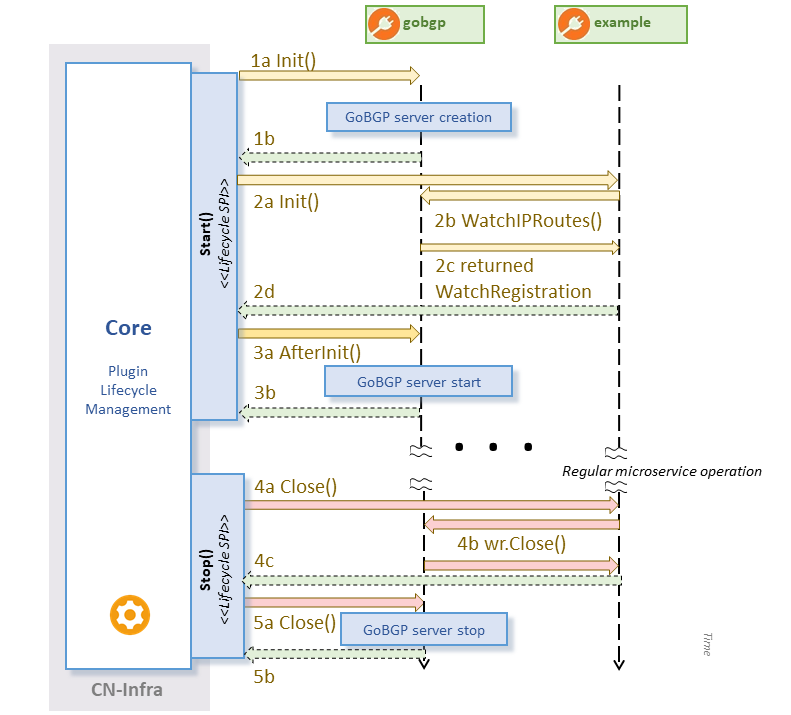
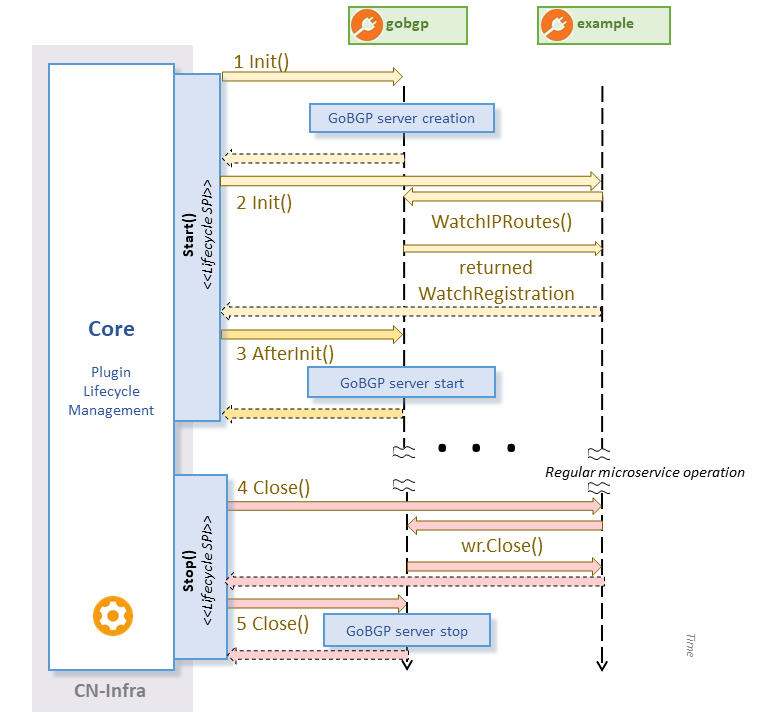
simplified bgp example workflow picture and clarified gobgp example architecture

diff --git a/example/gobgp/README.md b/example/gobgp/README.md
@@ -3,7 +3,7 @@
 The example demonstrates the usage of the `Ligato GoBGP Plugin`.
 ### Architecture
 ![arch](../../docs/imgs/dockerGoBGPExample.png "Ligato BGP Agent Example")
-Run the example itself locally and the [Route Reflector](../route-reflector-gobgp-docker) in docker container. The example will communicate with the Route reflector node(implemented by [GoBGP](https://github.com/osrg/gobgp)) using BGP protocol. Any new learned reachable routes from the Route reflector will be retrieved via the `Ligato GoBGP Plugin` and written to the console.
+Architecture consists of 2 `Ligato CN-Infra` plugins and the [Route Reflector](../route-reflector-gobgp-docker) in docker container. The lifecycle of plugins is controlled by [CN-Infra](https://github.com/ligato/cn-infra) Core component. The Example plugin will communicate with the `GoBGP plugin` and the `GoBGP plugin` will be communicating with Route reflector node(implemented by [GoBGP](https://github.com/osrg/gobgp)) using BGP protocol. Any new learned reachable routes from the Route reflector will be passed through the `GoBGP Plugin` to the Example plugin. The Example plugin will write received route to the console.
 
 ### Infrastructure setup
 To be able to run this example you must setup the infrastructure first.  
@@ -109,14 +109,14 @@ Plugin Example and goBGP are created and passed to `Ligato CN-infra agent` for h
 
 ![arch](../../docs/imgs/bgpexamplelifecycle.png "Ligato BGP Plugin workflow")
 
-<b>1a-1b</b> By goBGP plugin initialization, GoBGP server is created.
+<b>1.</b> By goBGP plugin initialization, GoBGP server is created.
 
-<b>2a-2d</b> Example plugin is initialized. It calls `WatchIPRoutes(...)` to become registered watcher. GoBGP plugin registers the Example plugin as watcher and returns to it `WatchRegistration`. The `WatchRegistration` will serve later for registration cancellation.   
+<b>2.</b> Example plugin is initialized. It calls `WatchIPRoutes(...)` to become registered watcher. GoBGP plugin registers the Example plugin as watcher and returns to it `WatchRegistration`. The `WatchRegistration` will serve later for registration cancellation.   
 
-<b>3a-3b</b> GoBGP plugin starts GoBGP server. From this point, the Example plugin will receive new advertized routes until registration cancelation (or GoBGP server stop).
+<b>3.</b> GoBGP plugin starts GoBGP server. From this point, the Example plugin will receive new advertized routes until registration cancelation (or GoBGP server stop).
 
-<b>4a-4c</b> Closing of the Example plugin will trigger registration cancellation (call to `Close()` on `WatchRegistration`).
+<b>4.</b> Closing of the Example plugin will trigger registration cancellation (call to `Close()` on `WatchRegistration`).
 
-<b>5a-5b</b> Closing of GoBGP plugin will also stop the GoBGP server.
+<b>5.</b> Closing of GoBGP plugin will also stop the GoBGP server.
 
 This workflow was examplary and the order of plugins in which it is called `Init()` is not important. Important is that all watcher plugins must register before the start of GoBGP server, i.e. in their `Init()`. Also order of closing is not important, because watcher either calls `Close()` on `WatchRegistration` and stop watching or GoBGP server stops and watcher won't get anything from that point on. 
